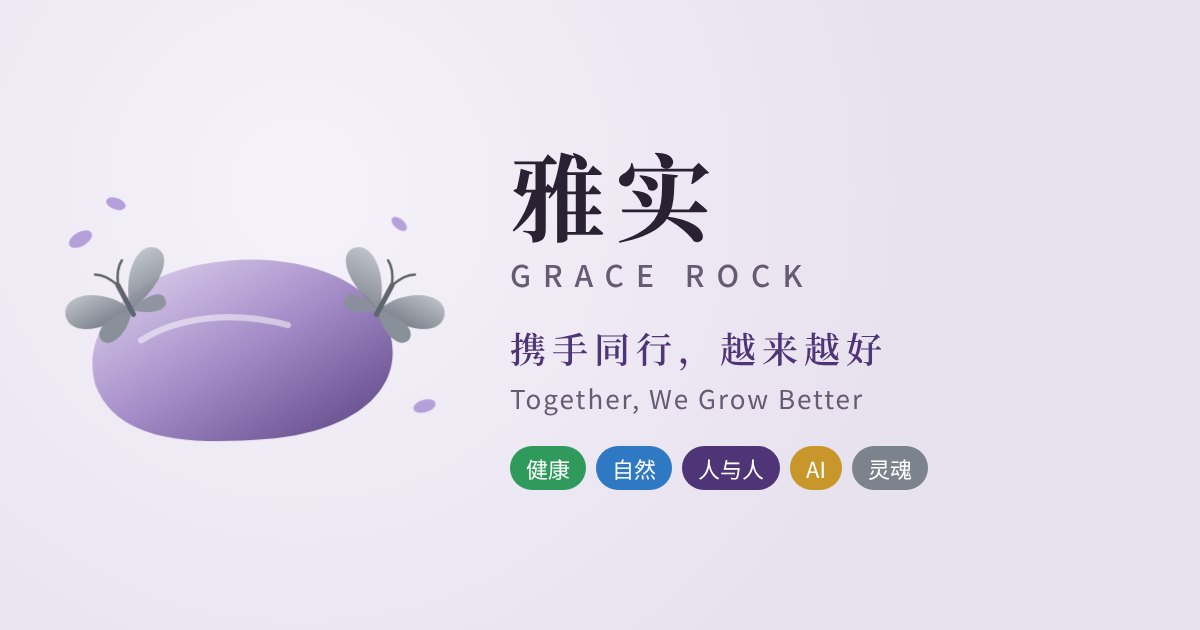
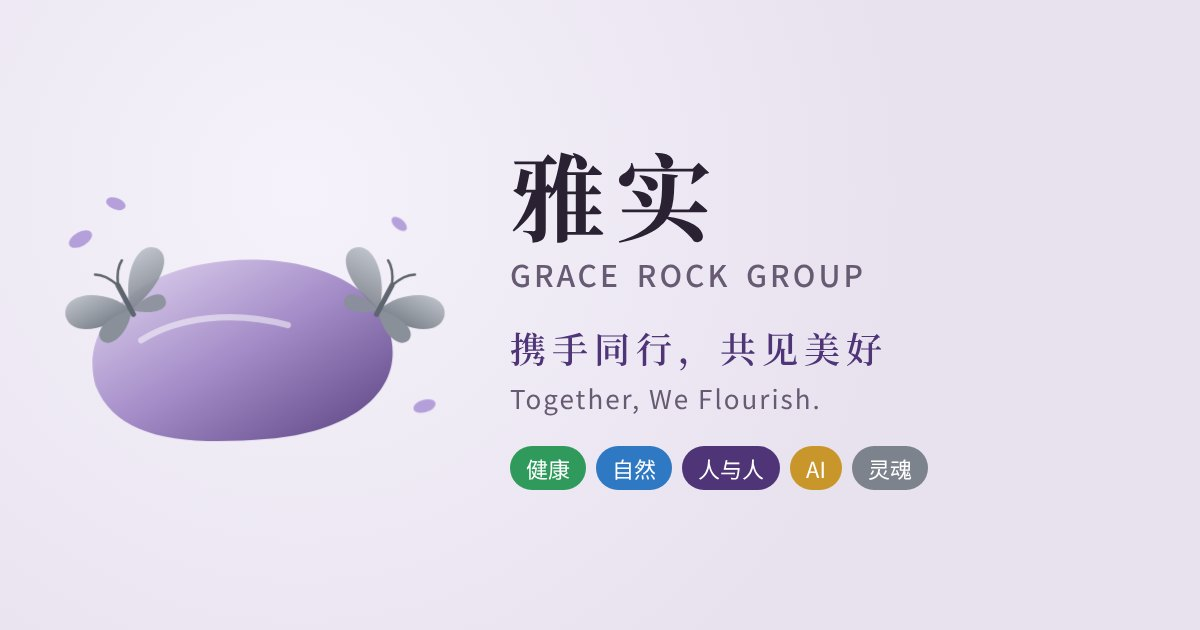
Brand and slogan: 雅实 / GRACE ROCK GROUP, 携手同行，共见美好 / Together, We Flourish. (#9)
Grace asked for the new brand line and slogans across the zh and en
sites. GRACE ROCK GROUP keeps normal word spaces with modest letter
spacing. Titles, share names, partner page footers and the share cover
follow; the layout is unchanged.

Claude-Session: https://claude.ai/code/session_01NwHbQYAv3aT6npYrBH1NNP

Changed region(s): [[0.5858, 0.5127, 0.7092, 0.6635], [0.4317, 0.4222, 0.74, 0.4524]]

diff --git a/preview/en.html b/preview/en.html
@@ -1,9 +1,9 @@
 <!doctype html><html lang="en"><head><meta charset=utf8><link rel="alternate" hreflang="zh" href="./"><link rel="alternate" hreflang="en" href="en.html"><script src="../lang.js"></script><script src="../share.js" defer></script>
 <meta name="description" content="Local businesses Grace has tried herself, plus family adventures. Mention GraceRock for an exclusive offer.">
 <meta property="og:type" content="website">
-<meta property="og:site_name" content="Grace Rock">
+<meta property="og:site_name" content="GRACE ROCK GROUP">
 <meta property="og:locale" content="en_AU">
-<meta property="og:title" content="Grace Rock · Together, We Grow Better">
+<meta property="og:title" content="GRACE ROCK GROUP · Together, We Flourish.">
 <meta property="og:description" content="Local businesses Grace has tried herself, plus family adventures. Mention GraceRock for an exclusive offer.">
 <meta property="og:url" content="https://graceleizhang.github.io/grace-events/preview/en.html">
 <meta property="og:image" content="https://graceleizhang.github.io/grace-events/preview/og-cover.jpg">
@@ -11,10 +11,10 @@
 <meta property="og:image:type" content="image/jpeg">
 <meta property="og:image:width" content="1200">
 <meta property="og:image:height" content="630">
-<meta property="og:image:alt" content="Grace Rock">
+<meta property="og:image:alt" content="GRACE ROCK GROUP">
 <meta name="twitter:card" content="summary_large_image">
 <meta name=viewport content="width=device-width,initial-scale=1,viewport-fit=cover"><meta name="robots" content="noindex">
-<title>Grace Rock · Together, We Grow Better</title><style>:root{color-scheme:light;box-sizing:border-box;padding-top:env(safe-area-inset-top,0px);padding-bottom:env(safe-area-inset-bottom,0px)}html{scroll-padding-top:env(safe-area-inset-top,0px)}body{margin:0;padding:0;font:14px -apple-system,BlinkMacSystemFont,sans-serif;background:#fff;color:#000}img{max-width:100%}[hidden]:not([hidden=until-found i]){display:none!important}</style></head><body>
+<title>GRACE ROCK GROUP · Together, We Flourish.</title><style>:root{color-scheme:light;box-sizing:border-box;padding-top:env(safe-area-inset-top,0px);padding-bottom:env(safe-area-inset-bottom,0px)}html{scroll-padding-top:env(safe-area-inset-top,0px)}body{margin:0;padding:0;font:14px -apple-system,BlinkMacSystemFont,sans-serif;background:#fff;color:#000}img{max-width:100%}[hidden]:not([hidden=until-found i]){display:none!important}</style></head><body>
 <img src="thumb.jpg" alt="" style="display:none">
 
 <meta name="claude:viewport-fit-sides" content="cover">
@@ -39,7 +39,9 @@ body{background:var(--bg);color:var(--ink);font-family:var(--body);font-size:15p
 .tag{align-self:center;font-size:12px;letter-spacing:.12em;color:var(--gold);border:1px solid var(--gold);border-radius:99px;padding:2px 12px}
 header{display:flex;flex-direction:column;align-items:center;text-align:center;gap:10px}
 h1{font-family:var(--display);font-weight:700;font-size:clamp(30px,7vw,44px);margin:0;letter-spacing:.06em}
-h1 small{display:block;font-family:var(--body);font-weight:500;font-size:13px;letter-spacing:.32em;color:var(--muted);margin-top:4px}
+p.slogan{letter-spacing:.04em}
+h1.en-brand{font-size:clamp(26px,6.4vw,40px);letter-spacing:.04em;word-spacing:.12em}
+h1 small{display:block;font-family:var(--body);font-weight:500;font-size:14px;letter-spacing:.08em;word-spacing:.15em;color:var(--muted);margin-top:4px}
 .slogan{font-family:var(--display);font-size:19px;color:var(--jac-deep);margin:6px 0 0;letter-spacing:.2em}
 .motto{margin:0;font-size:13px;letter-spacing:.08em;color:var(--muted);font-style:italic}
 .mission{background:var(--surface);border-left:3px solid var(--jac);padding:18px 20px;border-radius:0 8px 8px 0}
@@ -180,7 +182,7 @@ h3.group .no{background:rgba(255,255,255,.95);color:var(--gc,var(--jac));border-
 .enq .copied{font-size:13px}
 </style>
 
-<nav class="nav" aria-label="Main"><a class="brand" href="#top">Grace Rock</a><span class="links"><a href="#events">Events</a><a href="#partners">Partners</a><a href="#contact">Enquire</a></span><span data-lang-slot></span></nav>
+<nav class="nav" aria-label="Main"><a class="brand" href="#top">GRACE ROCK GROUP</a><span class="links"><a href="#events">Events</a><a href="#partners">Partners</a><a href="#contact">Enquire</a></span><span data-lang-slot></span></nav>
 <div class="wrap" id="top">
   <header>
     <svg width="170" height="120" viewBox="0 0 170 120" aria-label="Grace Rock emblem: a stone with a butterfly resting on each side">
@@ -206,10 +208,10 @@ h3.group .no{background:rgba(255,255,255,.95);color:var(--gc,var(--jac));border-
         <path d="M0-11C-2-16-4-18-6-19M0-11C2-16 4-18 6-19" stroke="#5f656e" stroke-width="1" fill="none" stroke-linecap="round"/>
       </g></g>
     </svg>
-    <h1>Grace Rock<small>雅实 · GRACE ROCK GROUP</small></h1>
-    <p class="slogan">Together, we grow better</p>
-    <p class="motto">Every one of us, getting better.</p>
-    <p class="pos">A Sydney family community, with every experience<br>tried and led by Grace Lei Zhang</p>
+    <h1 class="en-brand">GRACE ROCK GROUP<small>雅实</small></h1>
+    <p class="slogan">Together, We Flourish.</p>
+    <p class="motto">携手同行，共见美好</p>
+    <p class="pos">A Sydney family community, with every experience tried and led by Grace Lei Zhang</p>
     <p class="founder">Founder: Grace Lei Zhang</p>
     <div class="acts"><a class="pri" href="#events">Upcoming events</a><a href="#partners">Find a recommended business</a><a href="#contact">Business enquiries</a></div>
   </header>
@@ -281,7 +283,7 @@ h3.group .no{background:rgba(255,255,255,.95);color:var(--gc,var(--jac));border-
     </div>
   </section>
 
-  <footer>Grace Rock Group Pty Ltd · Sydney<br>Founder: Grace Lei Zhang · Come and experience it with Grace</footer>
+  <footer>GRACE ROCK GROUP Pty Ltd · Sydney<br>Founder: Grace Lei Zhang · Come and experience it with Grace</footer>
 </div>
 
 <div class="veil" id="veil" hidden>

diff --git a/preview/index.html b/preview/index.html
@@ -1,9 +1,9 @@
 <!doctype html><html lang="zh-CN"><head><meta charset=utf8><link rel="alternate" hreflang="zh" href="./"><link rel="alternate" hreflang="en" href="en.html"><script src="../lang.js"></script><script src="../share.js" defer></script>
 <meta name="description" content="Grace 亲自体验过的好商家和亲子活动。报暗号 GraceRock，享专属优惠。">
 <meta property="og:type" content="website">
-<meta property="og:site_name" content="雅实 Grace Rock">
+<meta property="og:site_name" content="雅实 GRACE ROCK GROUP">
 <meta property="og:locale" content="zh_CN">
-<meta property="og:title" content="雅实 Grace Rock · 携手同行，越来越好">
+<meta property="og:title" content="雅实 GRACE ROCK GROUP · 携手同行，共见美好">
 <meta property="og:description" content="Grace 亲自体验过的好商家和亲子活动。报暗号 GraceRock，享专属优惠。">
 <meta property="og:url" content="https://graceleizhang.github.io/grace-events/preview/">
 <meta property="og:image" content="https://graceleizhang.github.io/grace-events/preview/og-cover.jpg">
@@ -14,7 +14,7 @@
 <meta property="og:image:alt" content="雅实 Grace Rock">
 <meta name="twitter:card" content="summary_large_image">
 <meta name=viewport content="width=device-width,initial-scale=1,viewport-fit=cover"><meta name="robots" content="noindex">
-<title>雅实 Grace Rock · 携手同行，越来越好</title><style>:root{color-scheme:light;box-sizing:border-box;padding-top:env(safe-area-inset-top,0px);padding-bottom:env(safe-area-inset-bottom,0px)}html{scroll-padding-top:env(safe-area-inset-top,0px)}body{margin:0;padding:0;font:14px -apple-system,BlinkMacSystemFont,sans-serif;background:#fff;color:#000}img{max-width:100%}[hidden]:not([hidden=until-found i]){display:none!important}</style></head><body>
+<title>雅实 GRACE ROCK GROUP · 携手同行，共见美好</title><style>:root{color-scheme:light;box-sizing:border-box;padding-top:env(safe-area-inset-top,0px);padding-bottom:env(safe-area-inset-bottom,0px)}html{scroll-padding-top:env(safe-area-inset-top,0px)}body{margin:0;padding:0;font:14px -apple-system,BlinkMacSystemFont,sans-serif;background:#fff;color:#000}img{max-width:100%}[hidden]:not([hidden=until-found i]){display:none!important}</style></head><body>
 <img src="thumb.jpg" alt="" style="display:none">
 
 <meta name="claude:viewport-fit-sides" content="cover">
@@ -39,7 +39,7 @@ body{background:var(--bg);color:var(--ink);font-family:var(--body);font-size:15p
 .tag{align-self:center;font-size:12px;letter-spacing:.12em;color:var(--gold);border:1px solid var(--gold);border-radius:99px;padding:2px 12px}
 header{display:flex;flex-direction:column;align-items:center;text-align:center;gap:10px}
 h1{font-family:var(--display);font-weight:700;font-size:clamp(30px,7vw,44px);margin:0;letter-spacing:.06em}
-h1 small{display:block;font-family:var(--body);font-weight:500;font-size:13px;letter-spacing:.32em;color:var(--muted);margin-top:4px}
+h1 small{display:block;font-family:var(--body);font-weight:500;font-size:14px;letter-spacing:.08em;word-spacing:.15em;color:var(--muted);margin-top:4px}
 .slogan{font-family:var(--display);font-size:19px;color:var(--jac-deep);margin:6px 0 0;letter-spacing:.2em}
 .motto{margin:0;font-size:13px;letter-spacing:.08em;color:var(--muted);font-style:italic}
 .mission{background:var(--surface);border-left:3px solid var(--jac);padding:18px 20px;border-radius:0 8px 8px 0}
@@ -207,8 +207,8 @@ h3.group .no{background:rgba(255,255,255,.95);color:var(--gc,var(--jac));border-
       </g></g>
     </svg>
     <h1>雅实<small>GRACE ROCK GROUP</small></h1>
-    <p class="slogan">携手同行，越来越好</p>
-    <p class="motto">Every one of us, getting better.</p>
+    <p class="slogan">携手同行，共见美好</p>
+    <p class="motto">Together, We Flourish.</p>
     <p class="pos">Grace Lei Zhang 亲自体验、亲自带队的<br>悉尼华人家庭生活圈</p>
     <p class="founder">创始人 Grace Lei Zhang</p>
     <div class="acts"><a class="pri" href="#events">看近期活动</a><a href="#partners">找推荐商家</a><a href="#contact">商务咨询 · 合作</a></div>
@@ -281,7 +281,7 @@ h3.group .no{background:rgba(255,255,255,.95);color:var(--gc,var(--jac));border-
     </div>
   </section>
 
-  <footer>雅实 Grace Rock Group Pty Ltd · Sydney<br>创始人 Grace Lei Zhang · 和 Grace 一起去体验</footer>
+  <footer>雅实 GRACE ROCK GROUP Pty Ltd · Sydney<br>创始人 Grace Lei Zhang · 和 Grace 一起去体验</footer>
 </div>
 
 <div class="veil" id="veil" hidden>

diff --git a/preview/partners/meet-yoga-en.html b/preview/partners/meet-yoga-en.html
@@ -7,7 +7,7 @@
 <script src="../../lang.js"></script><script src="../../share.js" defer></script>
 <meta name="description" content="Small-group yoga in Baulkham Hills, with one-on-one guidance from Teacher He. Recommended from first-hand experience by Grace Lei Zhang.">
 <meta property="og:type" content="website">
-<meta property="og:site_name" content="Grace Rock">
+<meta property="og:site_name" content="GRACE ROCK GROUP">
 <meta property="og:locale" content="en_AU">
 <meta property="og:title" content="Meet Yoga · Small-group classes with Teacher He · Recommended by Grace Rock">
 <meta property="og:description" content="Small-group yoga in Baulkham Hills, with one-on-one guidance from Teacher He. Recommended from first-hand experience by Grace Lei Zhang.">
@@ -177,7 +177,7 @@ footer b{color:var(--gold)}
 </section>
 
 <footer>
-  <b>Grace Rock</b> · Together, we grow better<br>
+  <b>GRACE ROCK GROUP</b> · Together, We Flourish.<br>
   I only recommend businesses I have tried myself
   <div class="disc">Class introduction only. The teacher’s posture guidance is practice advice, not a medical diagnosis, and does not promise to improve or cure any condition. If you have an injury or health concern, check with your doctor before practising.</div>
 </footer>

diff --git a/preview/partners/meet-yoga.html b/preview/partners/meet-yoga.html
@@ -7,7 +7,7 @@
 <script src="../../lang.js"></script><script src="../../share.js" defer></script>
 <meta name="description" content="Baulkham Hills 小班瑜伽，何老师逐一指导动作。Grace Lei Zhang 亲身体验推荐。">
 <meta property="og:type" content="website">
-<meta property="og:site_name" content="雅实 Grace Rock">
+<meta property="og:site_name" content="雅实 GRACE ROCK GROUP">
 <meta property="og:locale" content="zh_CN">
 <meta property="og:title" content="Meet Yoga 何老师 · 小班瑜伽 · 雅实 Grace Rock 推荐">
 <meta property="og:description" content="Baulkham Hills 小班瑜伽，何老师逐一指导动作。Grace Lei Zhang 亲身体验推荐。">
@@ -177,7 +177,7 @@ footer b{color:var(--gold)}
 </section>
 
 <footer>
-  <b>雅实 Grace Rock</b> · 携手同行，越来越好<br>
+  <b>雅实 GRACE ROCK GROUP</b> · 携手同行，共见美好<br>
   只推荐我亲自体验过的好商家
   <div class="disc">本页为课程介绍。瑜伽老师的姿势指导是练习建议，不是医疗诊断，也不保证改善或治愈任何身体问题。如有伤病或身体不适，练习前请先咨询医生。</div>
 </footer>

diff --git a/preview/partners/s-fitness.html b/preview/partners/s-fitness.html
@@ -7,7 +7,7 @@
 <script src="../../lang.js"></script><script src="../../share.js" defer></script>
 <meta name="description" content="Burwood 运动健身。Grace 亲测 2 个月减 3 公斤。体验课 $40，报 GraceRock 买课加送 1 节。">
 <meta property="og:type" content="website">
-<meta property="og:site_name" content="雅实 Grace Rock">
+<meta property="og:site_name" content="雅实 GRACE ROCK GROUP">
 <meta property="og:locale" content="zh_CN">
 <meta property="og:title" content="S Fitness · 雅实 Grace Rock 推荐">
 <meta property="og:description" content="Burwood 运动健身。Grace 亲测 2 个月减 3 公斤。体验课 $40，报 GraceRock 买课加送 1 节。">
@@ -167,7 +167,7 @@ footer b{color:var(--gold)}
 </section>
 
 <footer>
-  <b>雅实 Grace Rock</b> · 携手同行，越来越好<br>
+  <b>雅实 GRACE ROCK GROUP</b> · 携手同行，共见美好<br>
   只推荐我亲自体验过的好商家
   <div class="disc">本页为商家介绍。减重效果因人而异；如有伤病，运动前请先咨询医生。</div>
 </footer>

diff --git a/preview/partners/ips-partners-en.html b/preview/partners/ips-partners-en.html
@@ -7,7 +7,7 @@
 <script src="../../lang.js"></script><script src="../../share.js" defer></script>
 <meta name="description" content="Accounting, tax, company set-up and financial planning in Hurstville. Mention GraceRock for a free first consult.">
 <meta property="og:type" content="website">
-<meta property="og:site_name" content="Grace Rock">
+<meta property="og:site_name" content="GRACE ROCK GROUP">
 <meta property="og:locale" content="en_AU">
 <meta property="og:title" content="IPS Partners · Recommended by Grace Rock">
 <meta property="og:description" content="Accounting, tax, company set-up and financial planning in Hurstville. Mention GraceRock for a free first consult.">
@@ -170,7 +170,7 @@ footer b{color:var(--gold)}
 </section>
 
 <footer>
-  <b>Grace Rock</b> · Together, we grow better<br>
+  <b>GRACE ROCK GROUP</b> · Together, We Flourish.<br>
   I only recommend businesses I have tried myself
   <div class="disc">Business introduction only, not financial or tax advice. Please consult a professional.</div>
 </footer>

diff --git a/preview/partners/s-fitness-en.html b/preview/partners/s-fitness-en.html
@@ -7,7 +7,7 @@
 <script src="../../lang.js"></script><script src="../../share.js" defer></script>
 <meta name="description" content="Fitness in Burwood. Grace lost 3 kg in 2 months. $40 trial class; mention GraceRock for an extra class.">
 <meta property="og:type" content="website">
-<meta property="og:site_name" content="Grace Rock">
+<meta property="og:site_name" content="GRACE ROCK GROUP">
 <meta property="og:locale" content="en_AU">
 <meta property="og:title" content="S Fitness · Recommended by Grace Rock">
 <meta property="og:description" content="Fitness in Burwood. Grace lost 3 kg in 2 months. $40 trial class; mention GraceRock for an extra class.">
@@ -167,7 +167,7 @@ footer b{color:var(--gold)}
 </section>
 
 <footer>
-  <b>Grace Rock</b> · Together, we grow better<br>
+  <b>GRACE ROCK GROUP</b> · Together, We Flourish.<br>
   I only recommend businesses I have tried myself
   <div class="disc">Business introduction only. Results vary; if you have an injury, check with your doctor before exercising.</div>
 </footer>

diff --git a/preview/partners/ips-partners.html b/preview/partners/ips-partners.html
@@ -7,7 +7,7 @@
 <script src="../../lang.js"></script><script src="../../share.js" defer></script>
 <meta name="description" content="Hurstville 会计、报税、公司注册、财务规划。报 GraceRock，首次咨询免费。">
 <meta property="og:type" content="website">
-<meta property="og:site_name" content="雅实 Grace Rock">
+<meta property="og:site_name" content="雅实 GRACE ROCK GROUP">
 <meta property="og:locale" content="zh_CN">
 <meta property="og:title" content="IPS Partners · 雅实 Grace Rock 推荐">
 <meta property="og:description" content="Hurstville 会计、报税、公司注册、财务规划。报 GraceRock，首次咨询免费。">
@@ -170,7 +170,7 @@ footer b{color:var(--gold)}
 </section>
 
 <footer>
-  <b>雅实 Grace Rock</b> · 携手同行，越来越好<br>
+  <b>雅实 GRACE ROCK GROUP</b> · 携手同行，共见美好<br>
   只推荐我亲自体验过的好商家
   <div class="disc">本页为商家介绍，不构成财务或税务建议，具体请咨询专业人士。</div>
 </footer>

diff --git a/preview/partners/herbmax-en.html b/preview/partners/herbmax-en.html
@@ -7,7 +7,7 @@
 <script src="../../lang.js"></script><script src="../../share.js" defer></script>
 <meta name="description" content="Chinese wellness and herbal steam in Epping. Mention GraceRock for a free health check.">
 <meta property="og:type" content="website">
-<meta property="og:site_name" content="Grace Rock">
+<meta property="og:site_name" content="GRACE ROCK GROUP">
 <meta property="og:locale" content="en_AU">
 <meta property="og:title" content="Herbmax Healthcare · Recommended by Grace Rock">
 <meta property="og:description" content="Chinese wellness and herbal steam in Epping. Mention GraceRock for a free health check.">
@@ -166,7 +166,7 @@ footer b{color:var(--gold)}
 </section>
 
 <footer>
-  <b>Grace Rock</b> · Together, we grow better<br>
+  <b>GRACE ROCK GROUP</b> · Together, We Flourish.<br>
   I only recommend businesses I have tried myself
   <div class="disc">Business introduction only, not medical advice. If you have a medical condition, see your doctor first.</div>
 </footer>

diff --git a/preview/partners/herbmax.html b/preview/partners/herbmax.html
@@ -7,7 +7,7 @@
 <script src="../../lang.js"></script><script src="../../share.js" defer></script>
 <meta name="description" content="Epping 中医养生、中药熏蒸。报 GraceRock，免费中医检测一次。">
 <meta property="og:type" content="website">
-<meta property="og:site_name" content="雅实 Grace Rock">
+<meta property="og:site_name" content="雅实 GRACE ROCK GROUP">
 <meta property="og:locale" content="zh_CN">
 <meta property="og:title" content="百草养生馆 Herbmax · 雅实 Grace Rock 推荐">
 <meta property="og:description" content="Epping 中医养生、中药熏蒸。报 GraceRock，免费中医检测一次。">
@@ -166,7 +166,7 @@ footer b{color:var(--gold)}
 </section>
 
 <footer>
-  <b>雅实 Grace Rock</b> · 携手同行，越来越好<br>
+  <b>雅实 GRACE ROCK GROUP</b> · 携手同行，共见美好<br>
   只推荐我亲自体验过的好商家
   <div class="disc">本页为商家介绍，不构成医疗建议。如有疾病，请先咨询医生。</div>
 </footer>

diff --git a/preview/partners/nell.html b/preview/partners/nell.html
@@ -144,7 +144,7 @@ footer b{color:var(--gold)}
 </section>
 
 <footer>
-  <b>雅实 Grace Rock</b> · 携手同行，越来越好<br>
+  <b>雅实 GRACE ROCK GROUP</b> · 携手同行，共见美好<br>
   只推荐我亲自体验过的好商家
   <div class="disc">本页为商家介绍，不构成投资或法律建议，具体请咨询专业人士。</div>
 </footer>

diff --git a/preview/partners/nell-en.html b/preview/partners/nell-en.html
@@ -144,7 +144,7 @@ footer b{color:var(--gold)}
 </section>
 
 <footer>
-  <b>Grace Rock</b><br>
+  <b>GRACE ROCK GROUP</b> · Together, We Flourish.<br>
   I only recommend businesses I have tried myself
   <div class="disc">Business introduction only, not investment or legal advice. Please consult a professional.</div>
 </footer>
